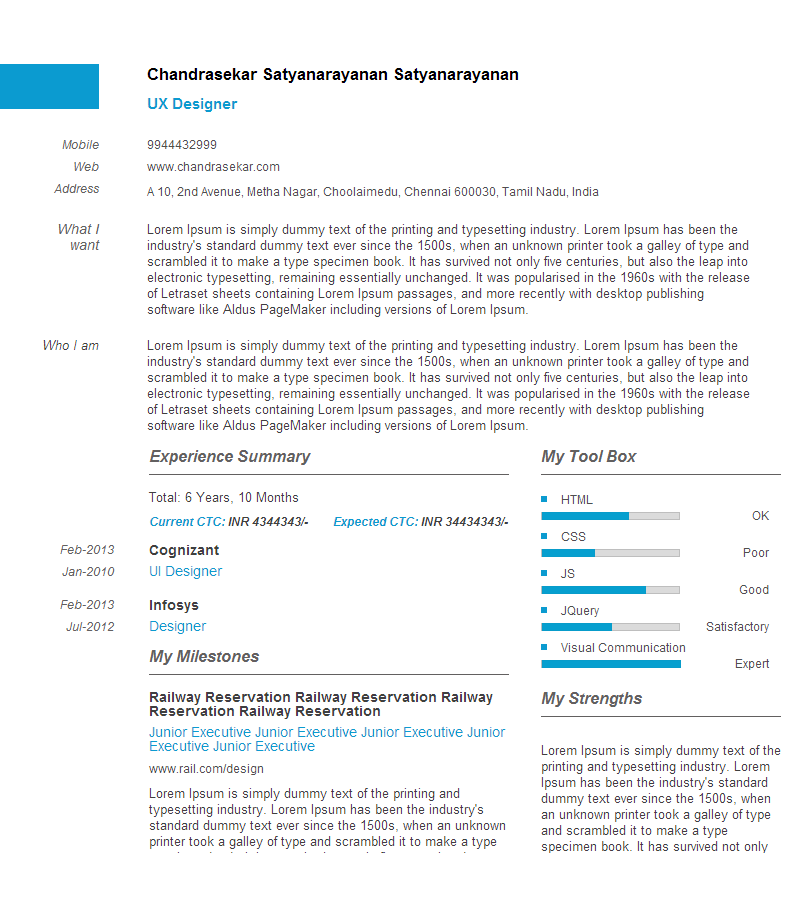
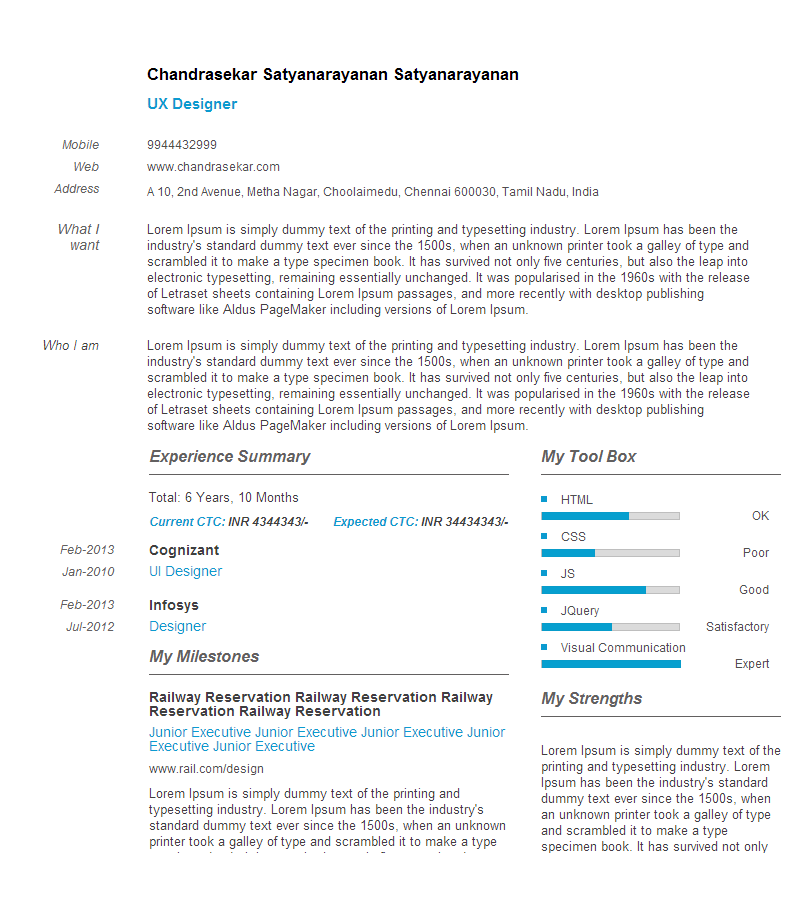
css fix overall

Changed region(s): [[0.0, 0.0611, 0.1513, 0.1221]]

diff --git a/assets/css/sss_resume.css b/assets/css/sss_resume.css
@@ -117,11 +117,15 @@ float: right;}
 .scroll_top_strn:hover{opacity:0.7;}
 .scroll_btm_strn:hover{opacity:0.7;}
 
-.dowload_logo{background: transparent url(../img/download_logo.png) center no-repeat; text-align:center; height:235px; padding:0px;  display:block;}
+.dowload_logo{background: transparent url(../img/download_logo.png) center no-repeat; text-align:center; height:242px; padding:0px;  display:block;}
 .downlod_cnt{text-align:center; margin:0px 0 0 0;}
 
-.star_mant3{position:absolute; margin:-2px 0 0 -3px; color:red;}
-.star_mant4{position:absolute; margin:-2px 0 0 1px; color:red;}
+.star_mant{position:absolute; margin:-2px 0px 0 -12px; color:red;}
+.star_mant2{position:absolute; margin:-2px 0px 0 -7px; color:red;}
+.star_mant3{position:absolute; margin-top:-2px; margin-left:-1px; color:red; padding:0;}
+.star_mant4{position:absolute; margin-top:-2px; margin-left:3px; color:red;  padding:0;}
+.phone_mant{position:absolute; margin-top:-2px; margin-left:-2px; color:red;  padding:0; display:inline;}
+.mail_mant{position:absolute;  margin-top:-2px; margin-left:-2px; color:red;  padding:0; display:inline;}
 .select_dob_input{margin-left:10px;}
 /******************************** Profile Tooltip ***************************/
 
@@ -258,8 +262,6 @@ input, select{
 }
 
 .form_sections{ margin-left: 20px; padding-bottom: 50px; }
-.star_mant{position:absolute; margin:-2px 0px 0 -13px; color:red;}
-.star_mant2{position:absolute; margin:-2px 0px 0 -9px; color:red;}
 .clickr, .clickr_final{
 	padding: 8px 30px 10px 20px; display: inline-block;
 	cursor: pointer;
@@ -456,7 +458,7 @@ float: left;
 
 }
 .why_cnt p{margin:0 0 15px 0!important; line-height: 25px!important;}
-
+.why_pg_cnt{padding:0 30px 10px 0;}
 /*************************************** Suggestion box *********************/
 .suggestion_box, .mys_right{
 	width:300px; height:559px;  display: block; overflow-y: scroll;

diff --git a/assets/css/sss_header.css b/assets/css/sss_header.css
@@ -60,7 +60,7 @@ h3{font-size: 1.4em;}
 	color: #FFFFFF;
     display: inline-block;
     height: 120px;
-    margin: 20px 20px 0 92px;
+    margin: 20px 20px 0 0px;
     text-decoration: none;
     text-indent: -999em;
     width: 120px;

diff --git a/assets/css/sss_login.css b/assets/css/sss_login.css
@@ -141,7 +141,7 @@ margin-bottom: 10px;
     display:none;
 }
 
-.profile-body .scus-msg{color:green; margin: 10px 0 10px 0;}
+.profile-body .scus-msg{color:green; margin:30px 0 10px 0;}
 
 .pr_right_edit{
 	padding-top: 10px;

diff --git a/application/views/why.php b/application/views/why.php
@@ -8,20 +8,20 @@
 
 
 <div class="why_cnt" style="line-height: 25px;color: #323232;">
-<p>
+<p class="why_pg_cnt">
 There are plenty of websites who help get you jobs once you have posted your resume to them, they have been around for a while and they are there to stay. So what does EZCV do that they don't?</p>
-<p>
+<p class="why_pg_cnt">
 Your resume is the most important document you will ever created in your life. And when you want to get it right, you come to us!</p>
-<p>
+<p class="why_pg_cnt">
 EZCV is not just another resume building website that promises you spectacular jobs. No, we are a lot more than that. We understand your primary need and we are sensitive to your problems. Its one thing to post a resume and hope for the best, its another thing to make your resume look like a perfect work of art and make sure YOU ARE THE BEST!</p>
-<p>
+<p class="why_pg_cnt">
 We have just opened shop, with gorgeous resumes that appeal to your creative senses as well as to the conservative mindset. We have resume designs for everybody. Now seriously, how creative can we get with a word document and its time for us to move on to a better looking, more improved version of the traditional Indian resume. We are here to give your word document a face lift.</p>
-<p>
+<p class="why_pg_cnt">
 Yes, we are here to make that difference, to change your mindset and to show you that it really can work for you. Its time to give up the word document version of your resume and move to a far more crisp looking resume. At the end of the day, you get just one chance to impress your recruiter, so let's not lose it. </p>
-<p>
+<p class="why_pg_cnt">
 EZCV is not just about good looking resumes, its about building a great personality about yourself. We help you frame the resume as you go along. Writing a resume can be tough and intimidating and the right words that best describe you professionally might not pop in your mind when you most need them. Don't worry, we can help you with that too. EZCV prompts you with suggestions that you might like to use as you build your personality with every section of your resume. Not just that, we scrapped the traditional format a bit and have brought in a brand new way of looking at resume building.</p>
-<p>
+<p class="why_pg_cnt">
 Its your choice to keep your resume long or crisp and short. We help you do both, all you need to do is fill in what ever you like and we will save it for you. </p>
-<p>
+<p class="why_pg_cnt">
 The bottom line is, we don't just worry about you getting a job, we care to help you make an impact. That's why, EZCV, the simple way to a gorgeous resume that suits a great personality!</p>
 </div>

diff --git a/application/views/resume.php b/application/views/resume.php
@@ -87,16 +87,16 @@
           <span class="lnme" id="lname_err"></span>
 				</div>
 			<div >
-			   <span class="phone_icon">&nbsp;</span><input  type="text"  name="phone" id="phone" placeholder="Phone" value="<? if(isset($user_detail[0]['mobile'])) echo $user_detail[0]['mobile']; ?>" />
-         <span class="star_mant">*</span>
+			   <span class="phone_icon">&nbsp;</span><input style="margin-right:2px!important;" type="text"  name="phone" id="phone" placeholder="Phone" value="<? if(isset($user_detail[0]['mobile'])) echo $user_detail[0]['mobile']; ?>" />
+         <span class="phone_mant">*</span>
 				<span id="phone_err"></span><br />
-				<span class="mail_icon">&nbsp;</span><input   name="email" type="email" id="email"  placeholder="Email" value="<? if(isset($user_detail[0]['secondary_email'])) echo $user_detail[0]['secondary_email']; ?>" />
-        <span class="star_mant">*</span>
+				<span class="mail_icon">&nbsp;</span><input style="margin-right:2px!important;" name="email" type="email" id="email"  placeholder="Email" value="<? if(isset($user_detail[0]['secondary_email'])) echo $user_detail[0]['secondary_email']; ?>" />
+        <span class="mail_mant">*</span>
 				<span id="email_err"></span>
 			</div>
 			<!-- DOB -->
 				<div>
-				    <label >Date of Birth<span style="color:red">*</span></label>
+				    <label >Date of Birth<span style="color:red"> *</span></label>
 				    <?
 				    if(isset($user_detail[0]['dob'])) 
 				    $dob = explode('-',$user_detail[0]['dob']);

diff --git a/assets/css/T/T1.php b/assets/css/T/T1.php
@@ -326,7 +326,7 @@ a{text-decoration:none;}
 
 
 .pbar_inner{ 
- width: 60%;  height: 6px;  margin-top: 6px; float: left; 
+ width: 57%;  height: 6px;  margin-top: 6px; float: left; 
  background-color: #dbdbdb; border:solid 1px #bebebe; }
 
 .pbar_fill{
@@ -392,7 +392,7 @@ a{text-decoration:none;}
 .address .left_content{width:15%; float:left; height:42px; border-radius:0 30px 30px 0; background-color:#fa5e5b; display:block;}
 .address .left_content .left_icon{ /*width:180px;*/ height:42px; border-radius:0 30px 30px 0; background:url(<?=$baseurl?>assets/img/Templates/addr.png) no-repeat scroll 83% 60%;}
 .address .right_content{width:80%; float:right;}
-.address .right_content h1{font-size:15px; font-weight:bold; padding:15px 0 8px 0; color:#7e7e7e; text-transform:uppercase;}
+.address .right_content h1{font-size:15px; font-weight:bold; padding:15px 0 13px 0; color:#7e7e7e; text-transform:uppercase;}
 .address .right_content p{font-size:14px; line-height: 20px;text-align:justify; color:#7e7e7e; margin:0px 20px 0 44px;}
 
 

diff --git a/assets/css/T/T3.php b/assets/css/T/T3.php
@@ -98,7 +98,7 @@ body p,b,h1,h2,h3,span{font-family:Arial, Helvetica, sans-serif; color:#3f3f3f;}
 .pbar{ width: 260px; height: 20px; }
 
 .pbar_inner{ 
- width: 40%;  height: 6px;  margin-top: 6px; float: left;  display: inline-block;
+ width: 38%;  height: 6px;  margin-top: 6px; float: left;  display: inline-block;
  background-color: #dbdbdb; border:solid 1px #bebebe; }
 
 .pbar_fill{

diff --git a/assets/css/T/T2.php b/assets/css/T/T2.php
@@ -102,7 +102,7 @@ body h1,h2,h3,h4,{font-weight:normal;}
 .pbar{ }
 
 .pbar_inner{ 
- width: 48%;  height: 6px;  margin-top: 2px; float: left; 
+ width: 46%;  height: 6px;  margin-top: 2px; float: left; 
  background-color: #dbdbdb; border:solid 1px #bebebe; }
 
 .pbar_fill{
